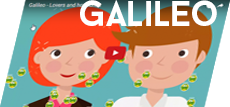
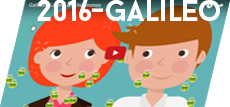
com

Changed region(s): [[0.1522, 0.0, 0.9739, 0.2523]]

diff --git a/animation.html b/animation.html
@@ -32,15 +32,15 @@
                     <div class="bubu"><h1>2D Animation Works</h1>
                               <hr>
                         <!--  <p>2015 – Kinderlieder Channel</p> -->
-      <a href="wip.html"><img src="2dwork/2dworksimg/klieder.png" alt="Kinder Lieder"></img>2015 – Kinderlieder Channel</a>
-      <a href="wip.html"><img src="2dwork/2dworksimg/galileo.png" alt="Galileo"></img>2016 – 2D short animations for Galileo</a>
+      <a href="wip.html"><img src="2dwork/2dworksimg/klieder.png" alt="Kinder Lieder"></img></a>
+      <a href="wip.html"><img src="2dwork/2dworksimg/galileo.png" alt="Galileo"></img></a>
                           <hr>
                           </div>
                             <hr>
                             <div class="bubu"><h1>3D Animation Works</h1>
                         <hr>
-      <a href="wip.html"><img src="3dwork/3dworksimg/comnovo.png" alt="COMNovo"></img>2016-2017 Comnovo</a>
-      <a href="wip.html"><img src="3dwork/3dworksimg/indect.png" alt="Indect"></img>2015 Indect</a>
+      <a href="wip.html"><img src="3dwork/3dworksimg/comnovo.png" alt="COMNovo"></img></a>
+      <a href="wip.html"><img src="3dwork/3dworksimg/indect.png" alt="Indect"></img></a>
                        <hr>
 
                      <hr>
